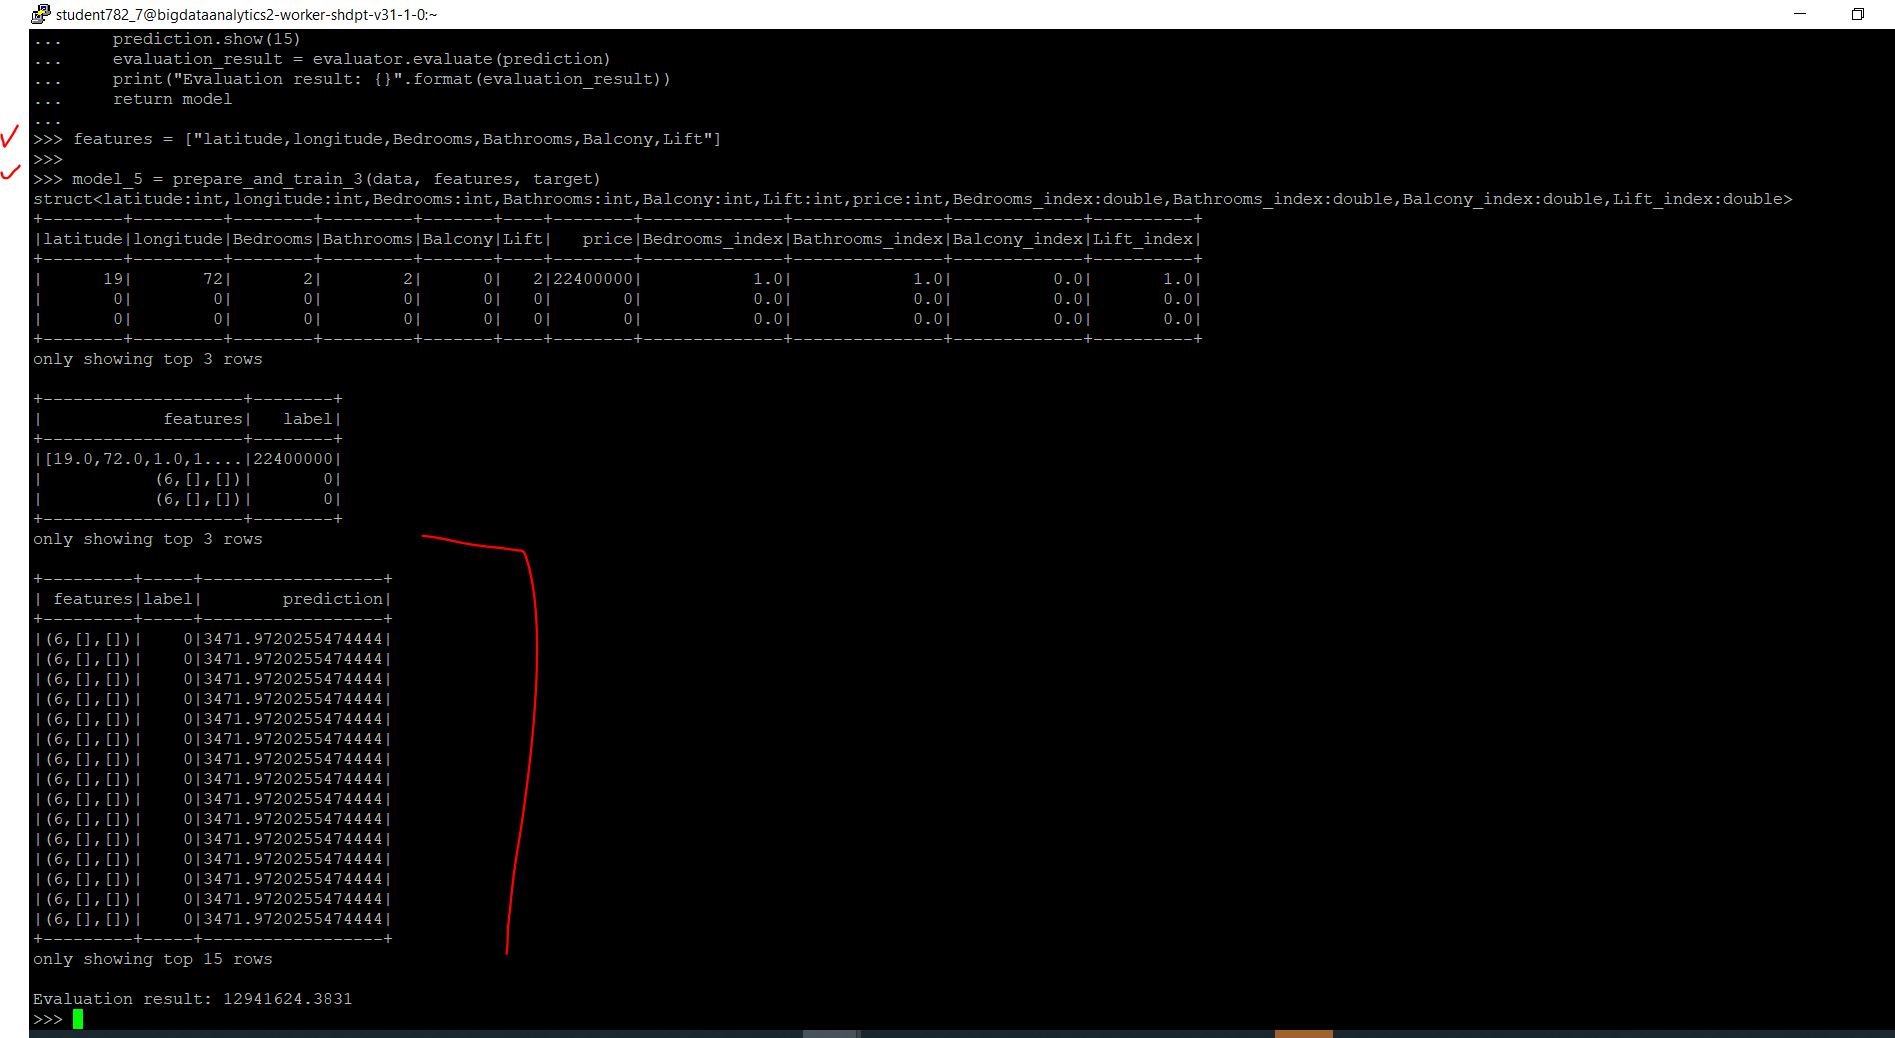
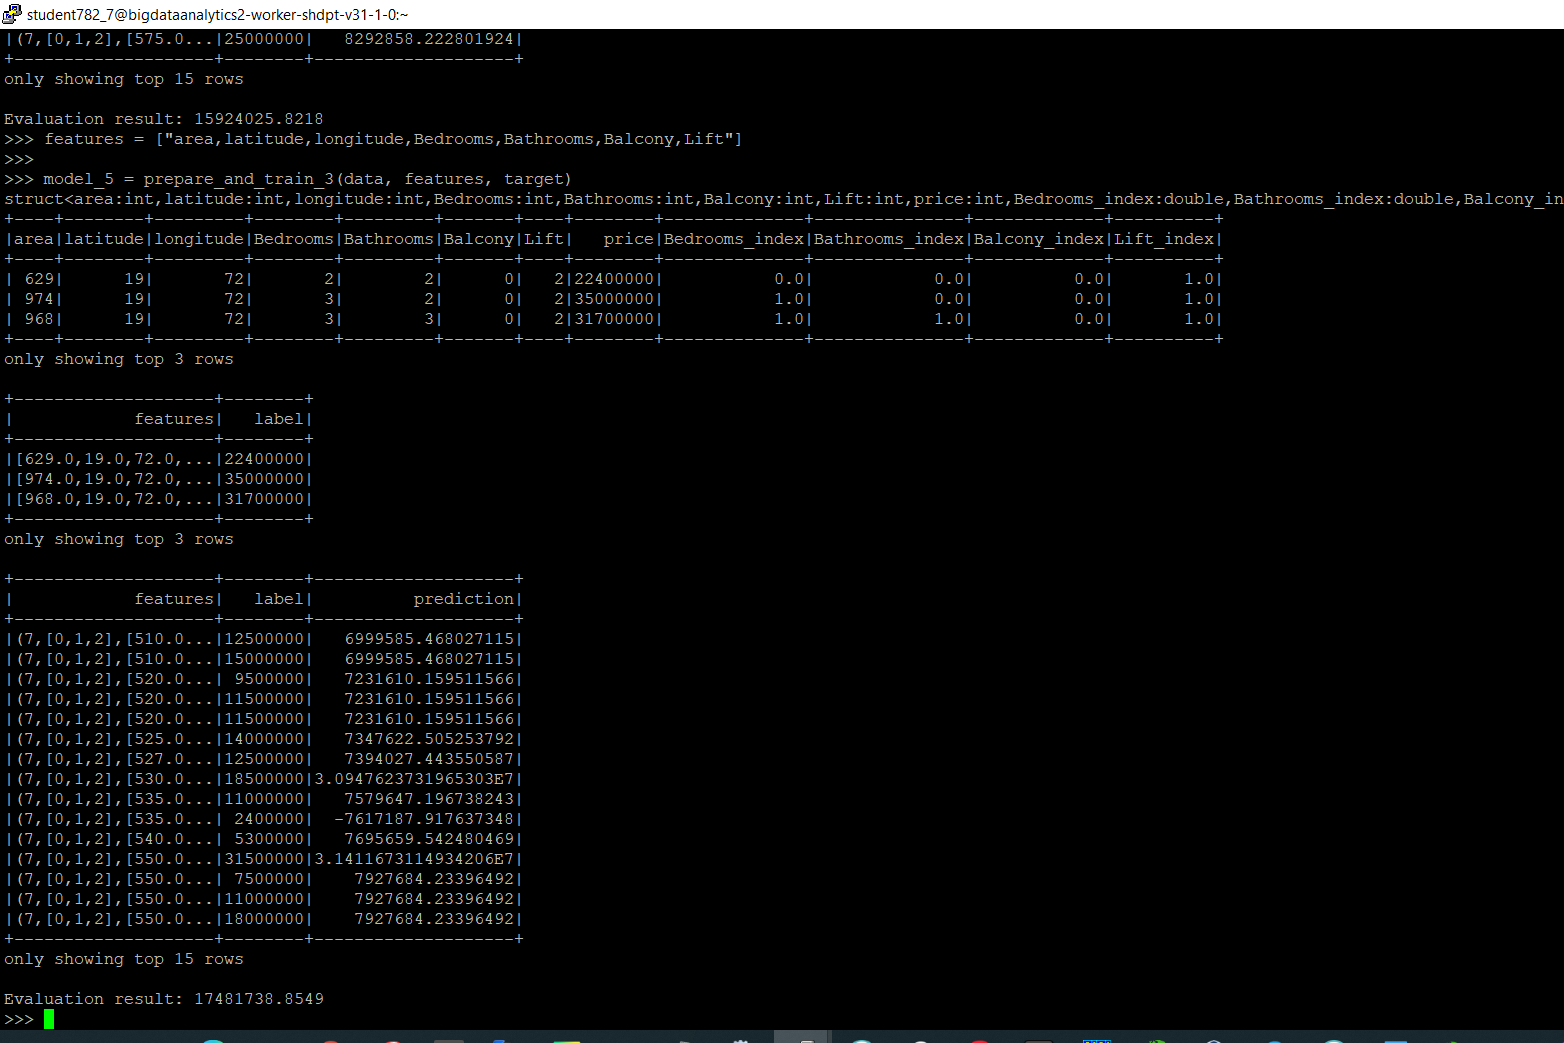
Corrected nulls

Changed region(s): [[0.0, 0.0, 1.0, 1.0]]

diff --git a/ML_LIB_TRAIN/Morozov_Mumbai_flats_mllib_train.py b/ML_LIB_TRAIN/Morozov_Mumbai_flats_mllib_train.py
@@ -40,6 +40,7 @@ print(data.schema.json())
 
 # Remove nulls , change to "0"
 data = data.fillna(0)
+data = data.filter((data.latitude != 0) & (data.Bedrooms != 0))
 
 data.show(3)
 print(data.schema.json())
@@ -191,7 +192,7 @@ model_3.write().overwrite().save(model_dir + "/model_3")
 
 # MODEL 4 #
 print("=== MODEL 4 ===")
-features = ["latitude,longitude,Bedrooms,Bathrooms,Balcony,Lift"]
+features = ["area,latitude,longitude,Bedrooms,Bathrooms,Balcony,Lift"]
 
 model_4 = prepare_and_train_2(data, features, target)
 model_4.write().overwrite().save(model_dir + "/model_4")
@@ -199,7 +200,7 @@ model_4.write().overwrite().save(model_dir + "/model_4")
 
 # MODEL 5 #
 print("=== MODEL 5 ===")
-features = ["latitude,longitude,Bedrooms,Bathrooms,Balcony,Lift"]
+features = ["area,latitude,longitude,Bedrooms,Bathrooms,Balcony,Lift"]
 
 model_5 = prepare_and_train_3(data, features, target)
 model_5.write().overwrite().save(model_dir + "/model_5")
